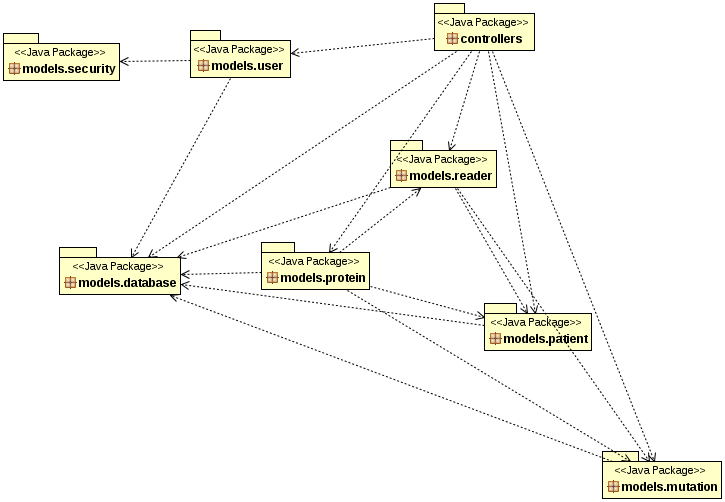
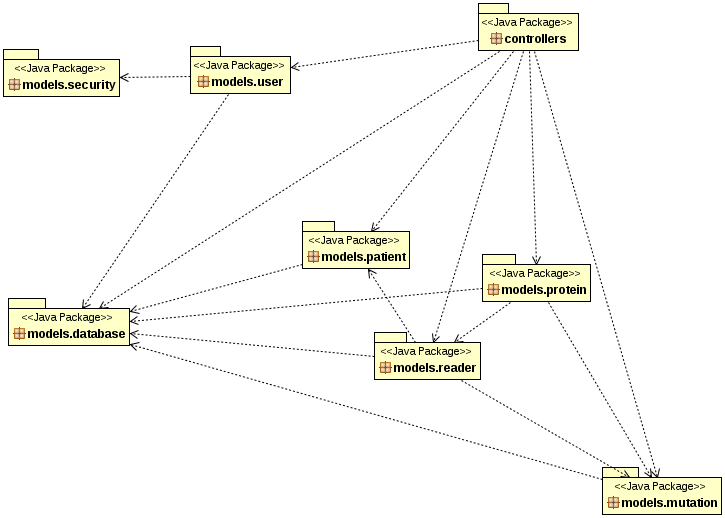
remove dependency between patient and protein

diff --git a/gevat/app/models/protein/ProteinRepositoryDB.java b/gevat/app/models/protein/ProteinRepositoryDB.java
@@ -8,7 +8,6 @@ import models.database.QueryProcessor;
 import models.mutation.Mutation;
 import models.mutation.MutationRepositoryDB;
 import models.mutation.MutationService;
-import models.patient.Patient;
 
 /**
  * Repository for protein.
@@ -28,10 +27,10 @@ public class ProteinRepositoryDB implements ProteinRepository {
 	}
 
 	@Override
-	public ArrayList<Mutation> getRelatedMutations(Patient p, Mutation m)
+	public ArrayList<Mutation> getRelatedMutations(int patientId, Mutation m)
 			throws SQLException {
 //		TODO getRelatedMutations
-		List<Mutation> mutations = mutationService.getMutations(p.getId());
+		List<Mutation> mutations = mutationService.getMutations(patientId);
 		ArrayList<Mutation> related = new ArrayList<Mutation>();
 
 		// Find mutation related to this protein (should be faster)

diff --git a/gevat/app/models/protein/ProteinService.java b/gevat/app/models/protein/ProteinService.java
@@ -4,7 +4,6 @@ import java.sql.SQLException;
 import java.util.ArrayList;
 
 import models.mutation.Mutation;
-import models.patient.Patient;
 
 /**
  * Service for protein.
@@ -35,13 +34,13 @@ public class ProteinService {
 	}
 
 	/**
-	 * @param p The patient
+	 * @param patientId The ID of the patient
 	 * @param m The mutation
 	 * @return A list of related mutations
 	 * @throws SQLException SQL Exception
 	 */
-	public ArrayList<Mutation> getRelatedMutations(Patient p, Mutation m)
+	public ArrayList<Mutation> getRelatedMutations(int patientId, Mutation m)
 			throws SQLException {
-		return proteinRepository.getRelatedMutations(p, m);
+		return proteinRepository.getRelatedMutations(patientId, m);
 	}
 }

diff --git a/gevat/app/models/protein/ProteinRepository.java b/gevat/app/models/protein/ProteinRepository.java
@@ -4,7 +4,6 @@ import java.sql.SQLException;
 import java.util.ArrayList;
 
 import models.mutation.Mutation;
-import models.patient.Patient;
 
 /**
  * Interface for protein.
@@ -24,11 +23,11 @@ public interface ProteinRepository {
 
 	/**
 	 * 
-	 * @param p The patient
+	 * @param patientId The ID of the patient
 	 * @param m The mutation
 	 * @return A list of related mutations
 	 * @throws SQLException SQL Exception
 	 */
-	ArrayList<Mutation> getRelatedMutations(Patient p, Mutation m)
+	ArrayList<Mutation> getRelatedMutations(int patientId, Mutation m)
 			throws SQLException;
 }

diff --git a/gevat/app/controllers/Mutations.java b/gevat/app/controllers/Mutations.java
@@ -159,7 +159,7 @@ public class Mutations extends Controller {
 		JSONArray mutationsJSON = new JSONArray();
 
 		ArrayList<Mutation> relatedMutations = proteinService
-				.getRelatedMutations(patient, mutation);
+				.getRelatedMutations(patient.getId(), mutation);
 
 		for (Mutation m : relatedMutations) {
 			JSONObject mutationJSON = createMutationJSON(patient, m);
